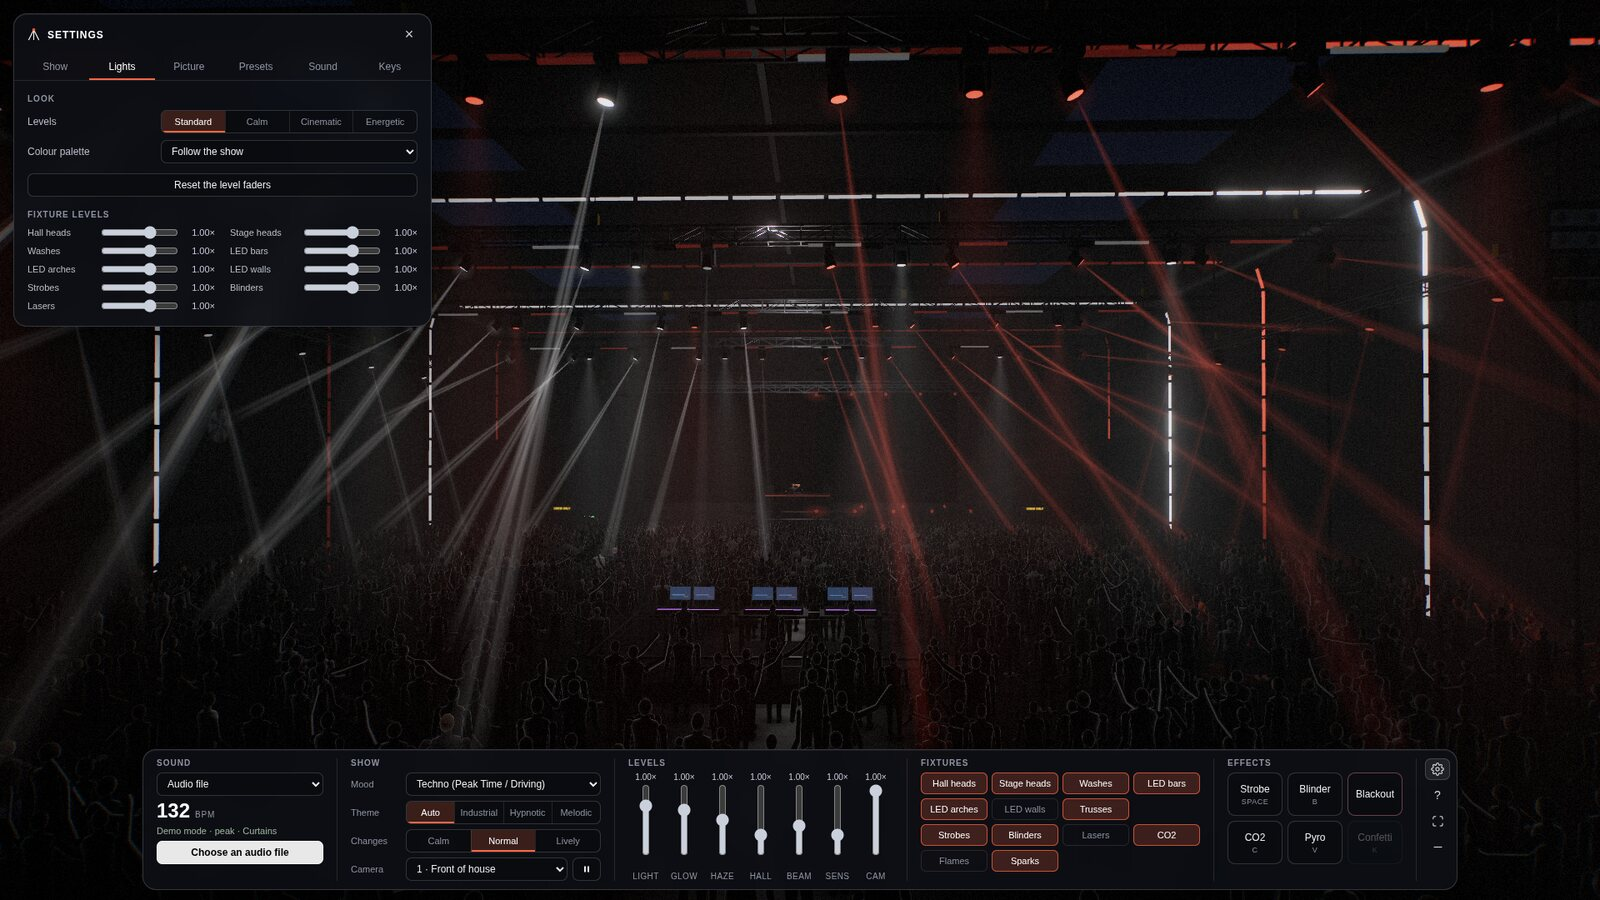
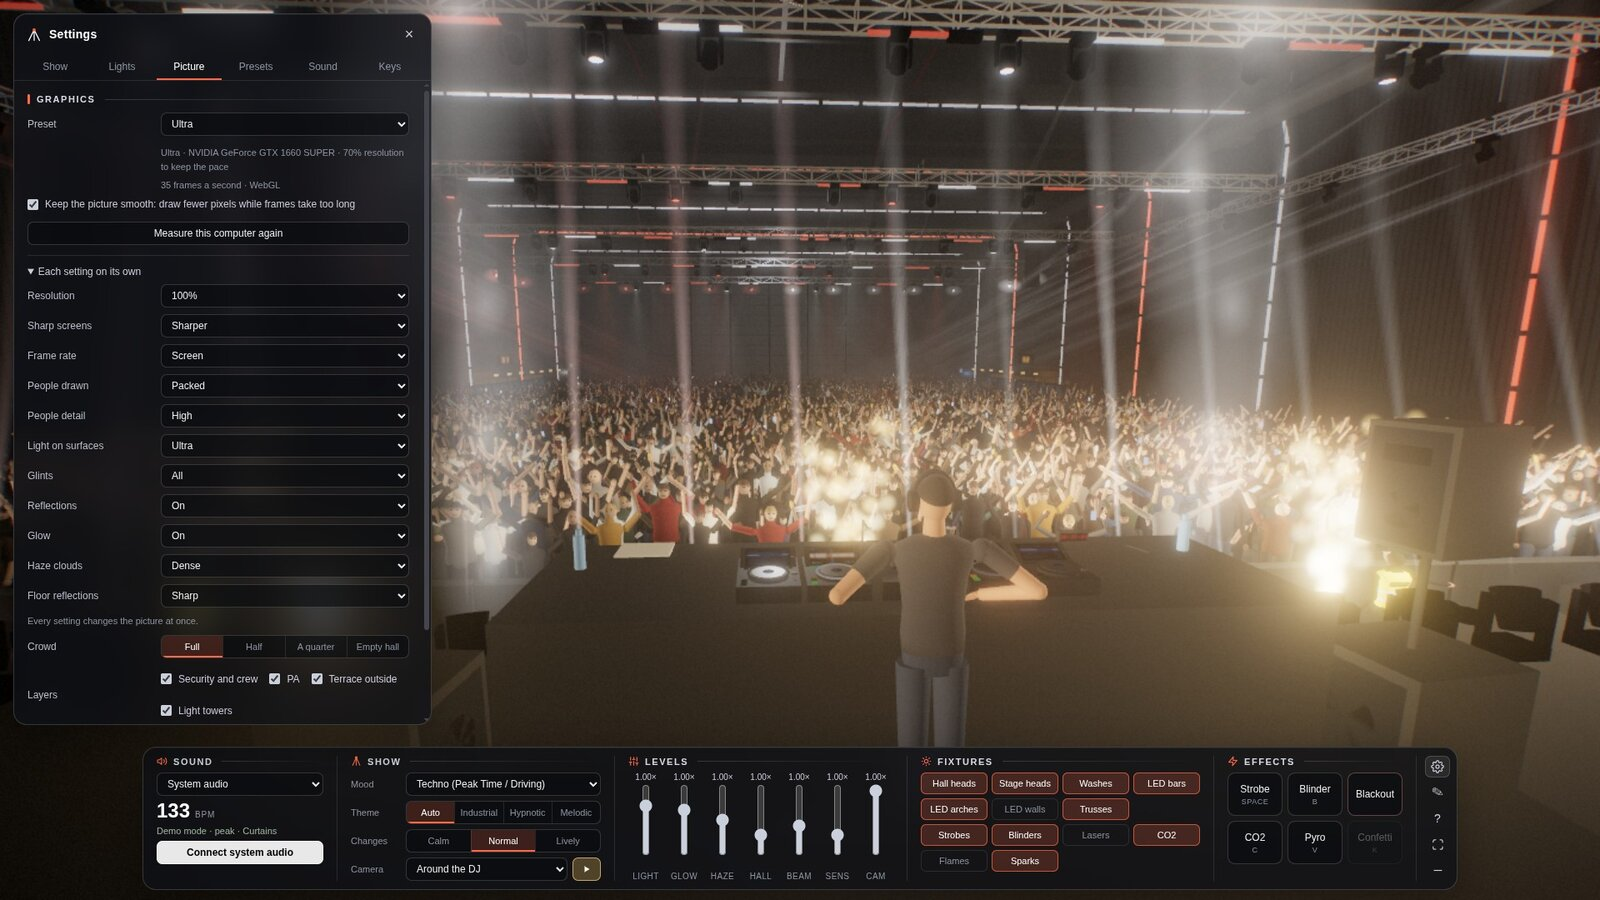
README: what SV is now, and pictures of 0.40

diff --git a/README.md b/README.md
@@ -9,7 +9,7 @@
 
 <p align="center">
   <strong>Turn your music into a live 3D light show.</strong><br>
-  Moving lights, LED arches, cameras and a crowd — all inside your browser.
+  A festival hangar with 92 moving heads, haze, reflections and 2,600 dancing people — all inside your browser.
 </p>
 
 <p align="center">
@@ -25,12 +25,14 @@
 <p align="center"><em>Hangar · the main stage of Stage Visualizer</em></p>
 
 **Hangar** is the single public venue and the main stage for developing SV.
-Choose from **48 moods** to shape the show, then adjust its look and camera.
-WebGPU renders the show when available; WebGL provides a fallback.
+Choose from **48 moods**: each kind of music plays the rig its own way, and a track keeps its colours from its first
+kick to its last. With Spotify on Linux the show knows when a new track starts; with rekordbox it reads the decks.
+Graphics presets from Light to Ultra, measured on your own computer, keep it smooth on anything from a laptop chip to
+a gaming card. WebGPU renders the show when available; WebGL provides a fallback.
 
 | Music | Light show | Your controls |
 | --- | --- | --- |
-| Local tracks, audio inputs and supported system-audio sharing | Moving heads, LED arches, haze and a dancing crowd | Nine camera views, level faders and a switch for every light group |
+| Spotify (Linux), rekordbox, local tracks, audio inputs and system audio | 92 moving heads, a row of 24 on the stage, washes, haze, floor reflections and a dancing crowd | A camera around the DJ, nine views, level faders and a switch for every light group |
 | Audio processed locally in your browser | Automatic scenes shaped by the incoming music | Fine tuning, saved presets and keyboard effects |
 
 <table>
@@ -48,12 +50,11 @@ WebGPU renders the show when available; WebGL provides a fallback.
   </tr>
   <tr>
     <td align="center"><strong>Start the show</strong><br>Pick your sound and picture while the venue builds.</td>
-    <td align="center"><strong>Settings apart</strong><br>What you set once, in six short pages.</td>
+    <td align="center"><strong>Graphics as in a game</strong><br>A preset, or every setting on its own.</td>
   </tr>
 </table>
 
-*Actual screenshots of the public 0.26.2 Hangar demo, using the Cool palette
-and Energetic look. Click the smaller images to view them at full size.*
+*Actual screenshots of the Hangar demo in 0.40, at Ultra. Click the smaller images to view them at full size.*
 
 ## Start
 
